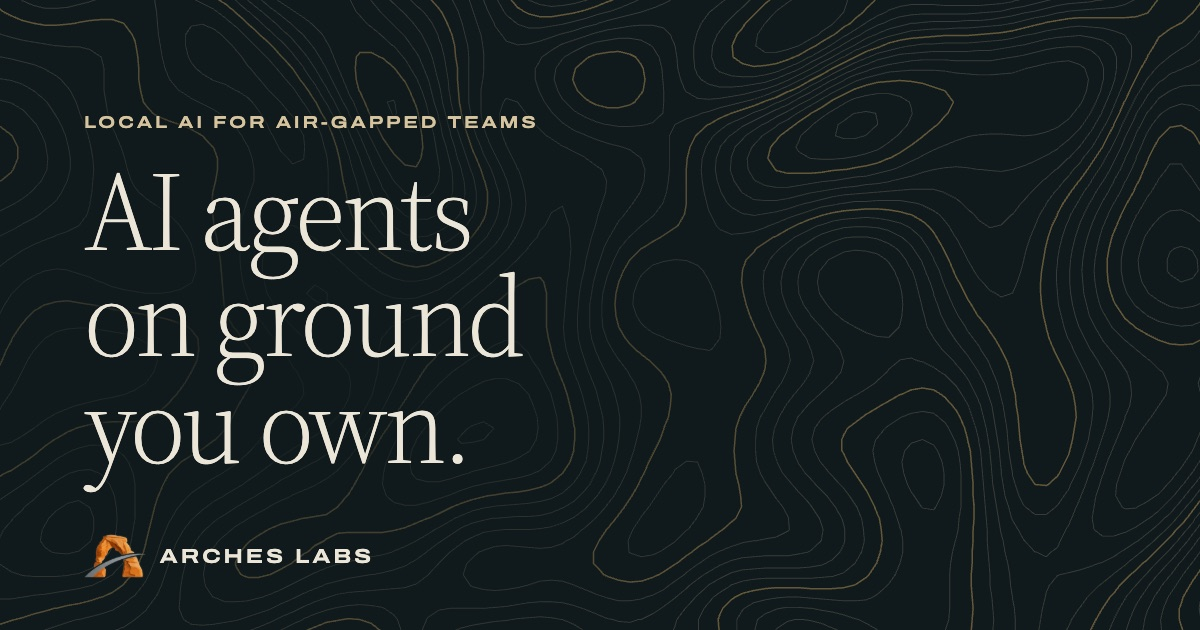
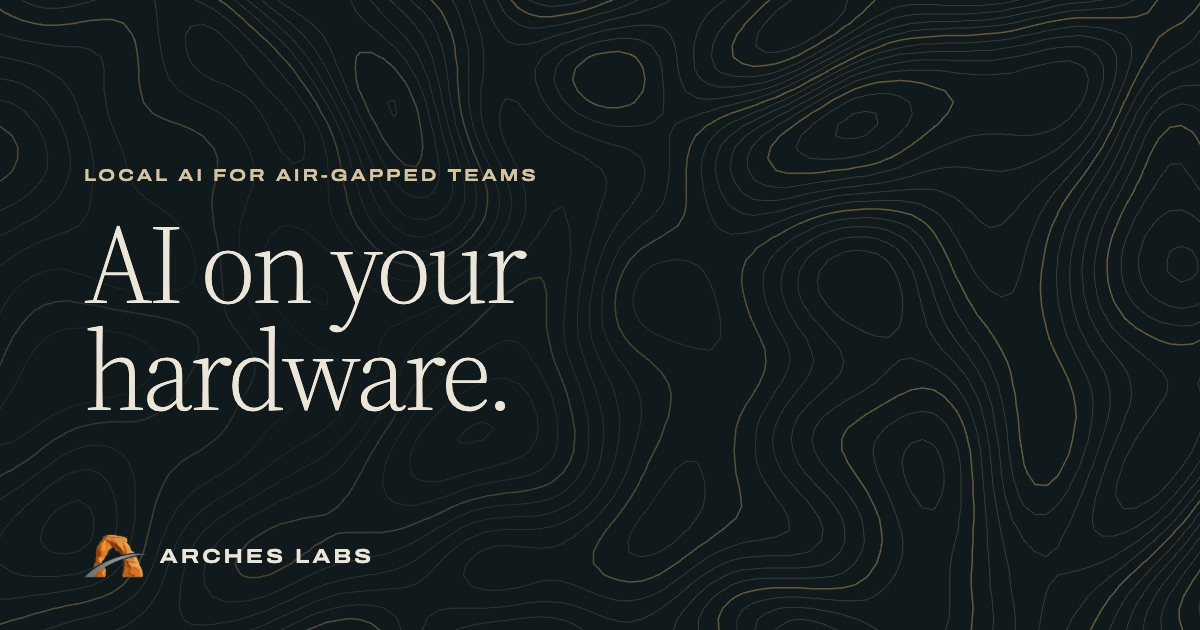
Local AI headline: "AI on your hardware."
Replaces "AI agents on ground you own." in the hero, the link-preview titles
and alt text, and the share image.

Changed region(s): [[0.0617, 0.2714, 0.4625, 0.754], [0.0617, 0.181, 0.4625, 0.2111], [0.0617, 0.754, 0.0925, 0.7841]]

diff --git a/local-ai/index.html b/local-ai/index.html
@@ -30,18 +30,18 @@
 <!-- Open Graph / Twitter -->
 <meta property="og:type" content="website">
 <meta property="og:site_name" content="Arches Labs">
-<meta property="og:title" content="AI agents on ground you own">
+<meta property="og:title" content="AI on your hardware">
 <meta property="og:description" content="AI agents set up on hardware inside your building. Nothing leaves your network. Built for air-gapped teams: book a 30-minute call.">
 <meta property="og:url" content="https://archeslab.com/local-ai/">
 <meta property="og:image" content="https://archeslab.com/assets/img/local-ai-og-cover.jpg">
 <meta property="og:image:width" content="1200">
 <meta property="og:image:height" content="630">
-<meta property="og:image:alt" content="Pale contour lines on a dark blue-green map, behind the words: AI agents on ground you own.">
+<meta property="og:image:alt" content="Pale contour lines on a dark blue-green map, behind the words: AI on your hardware.">
 <meta name="twitter:card" content="summary_large_image">
-<meta name="twitter:title" content="AI agents on ground you own">
+<meta name="twitter:title" content="AI on your hardware">
 <meta name="twitter:description" content="AI agents set up on hardware inside your building. Nothing leaves your network. Built for air-gapped teams: book a 30-minute call.">
 <meta name="twitter:image" content="https://archeslab.com/assets/img/local-ai-og-cover.jpg">
-<meta name="twitter:image:alt" content="Pale contour lines on a dark blue-green map, behind the words: AI agents on ground you own.">
+<meta name="twitter:image:alt" content="Pale contour lines on a dark blue-green map, behind the words: AI on your hardware.">
 
 <meta name="theme-color" content="#101a1c">
 <link rel="icon" href="../assets/img/favicon-32.png" sizes="32x32" type="image/png">
@@ -113,7 +113,7 @@
   <section class="ai-hero ai-halo" aria-labelledby="hero-title">
     <div class="page">
       <p class="ai-label">For defense and other <span class="nowrap">air-gapped teams</span></p>
-      <h1 id="hero-title">AI agents on ground you own.</h1>
+      <h1 id="hero-title">AI on your hardware.</h1>
       <p class="ai-hero__lede">
         We set up AI agents on computers inside your building, working on your own files and
         systems. Nothing leaves your network. We're setting up our first partner sites now.
